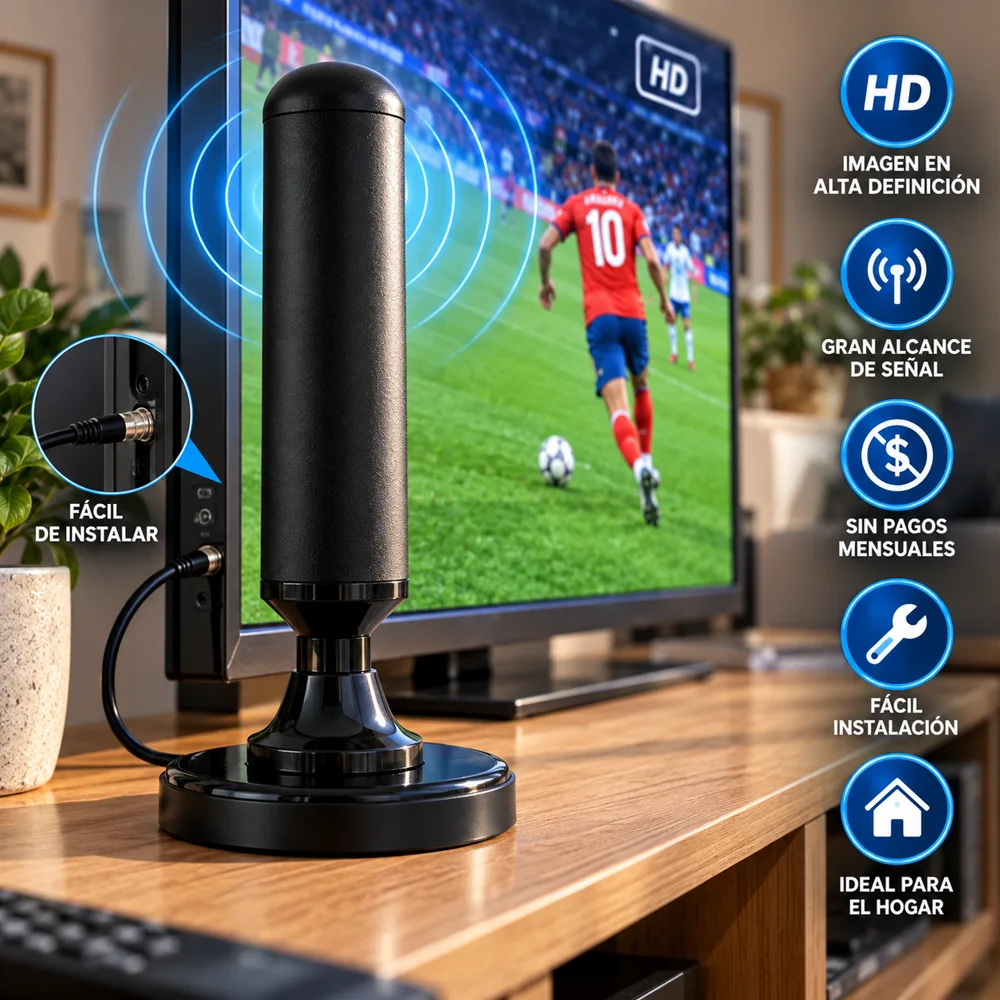
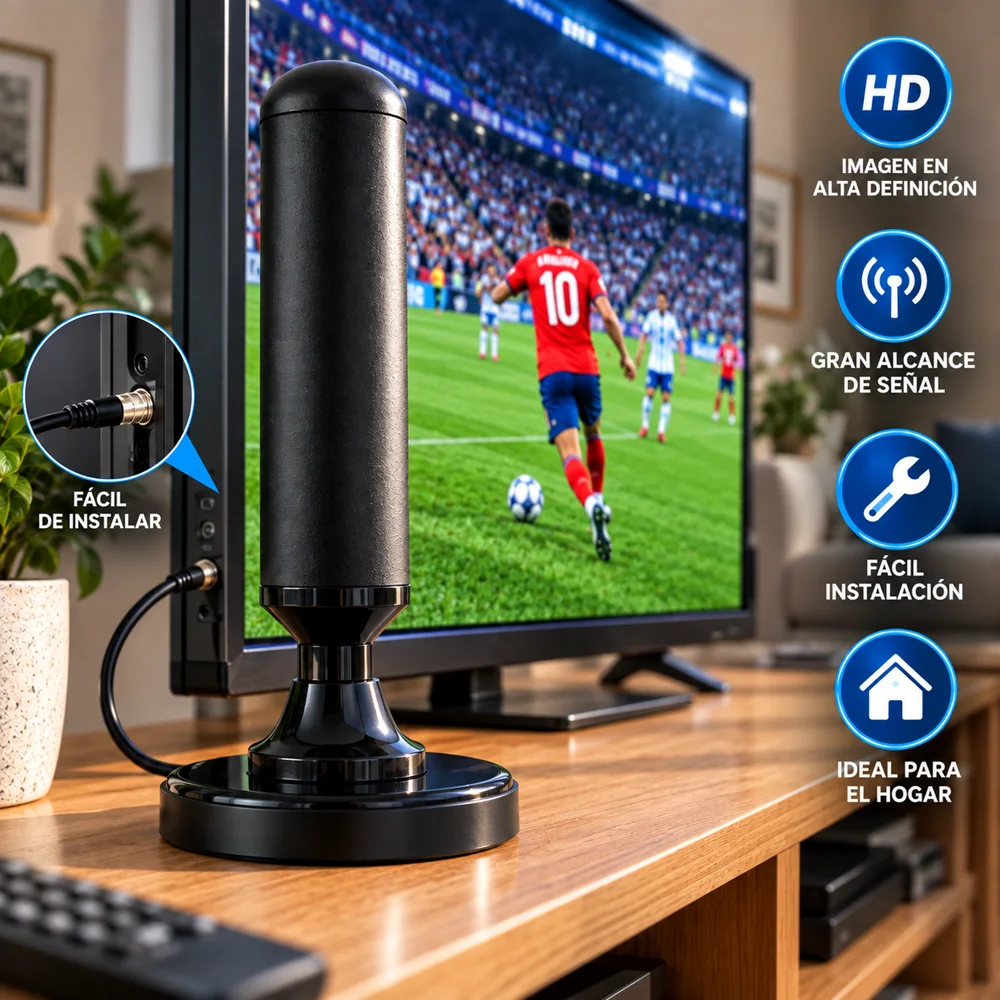
Antena: tercera foto sin el ícono de "pagos mensuales"

diff --git a/antena.js b/antena.js
@@ -98,7 +98,7 @@
       ['prod-antena-3.webp', 'La antena con el cable extendido hasta la ventana',
        'Cable de 3 metros', 'Llega hasta la ventana',
        'La señal entra mejor cerca de la ventana. Con 3 metros de cable la pones ahí sin alargadores ni mover el televisor.'],
-      ['antena-f3.webp?v=1', 'La antena conectada al televisor con el partido en HD y sus beneficios al lado',
+      ['antena-f3.webp?v=2', 'La antena conectada al televisor con el partido en HD y sus beneficios al lado',
        'Canales en HD', 'Señal abierta, nítida',
        'Capta los canales abiertos de Chile en alta definición: noticias, fútbol, teleseries. Es antena de señal abierta: no reemplaza el cable ni el streaming.'],
     ];

diff --git a/producto.html b/producto.html
@@ -1122,7 +1122,7 @@ window.jayePixel = (function () {
 <script src="organizador.js?v=20"></script>
 <script src="clorofila.js?v=6"></script>
 <script src="lymphoria.js?v=13"></script>
-<script src="antena.js?v=7"></script>
+<script src="antena.js?v=8"></script>
 <script>
 /* ---- el video del producto NO se baja al abrir la pagina ----
    Antes iba con preload="auto": el celular se traia los 2,1 MB de una,
